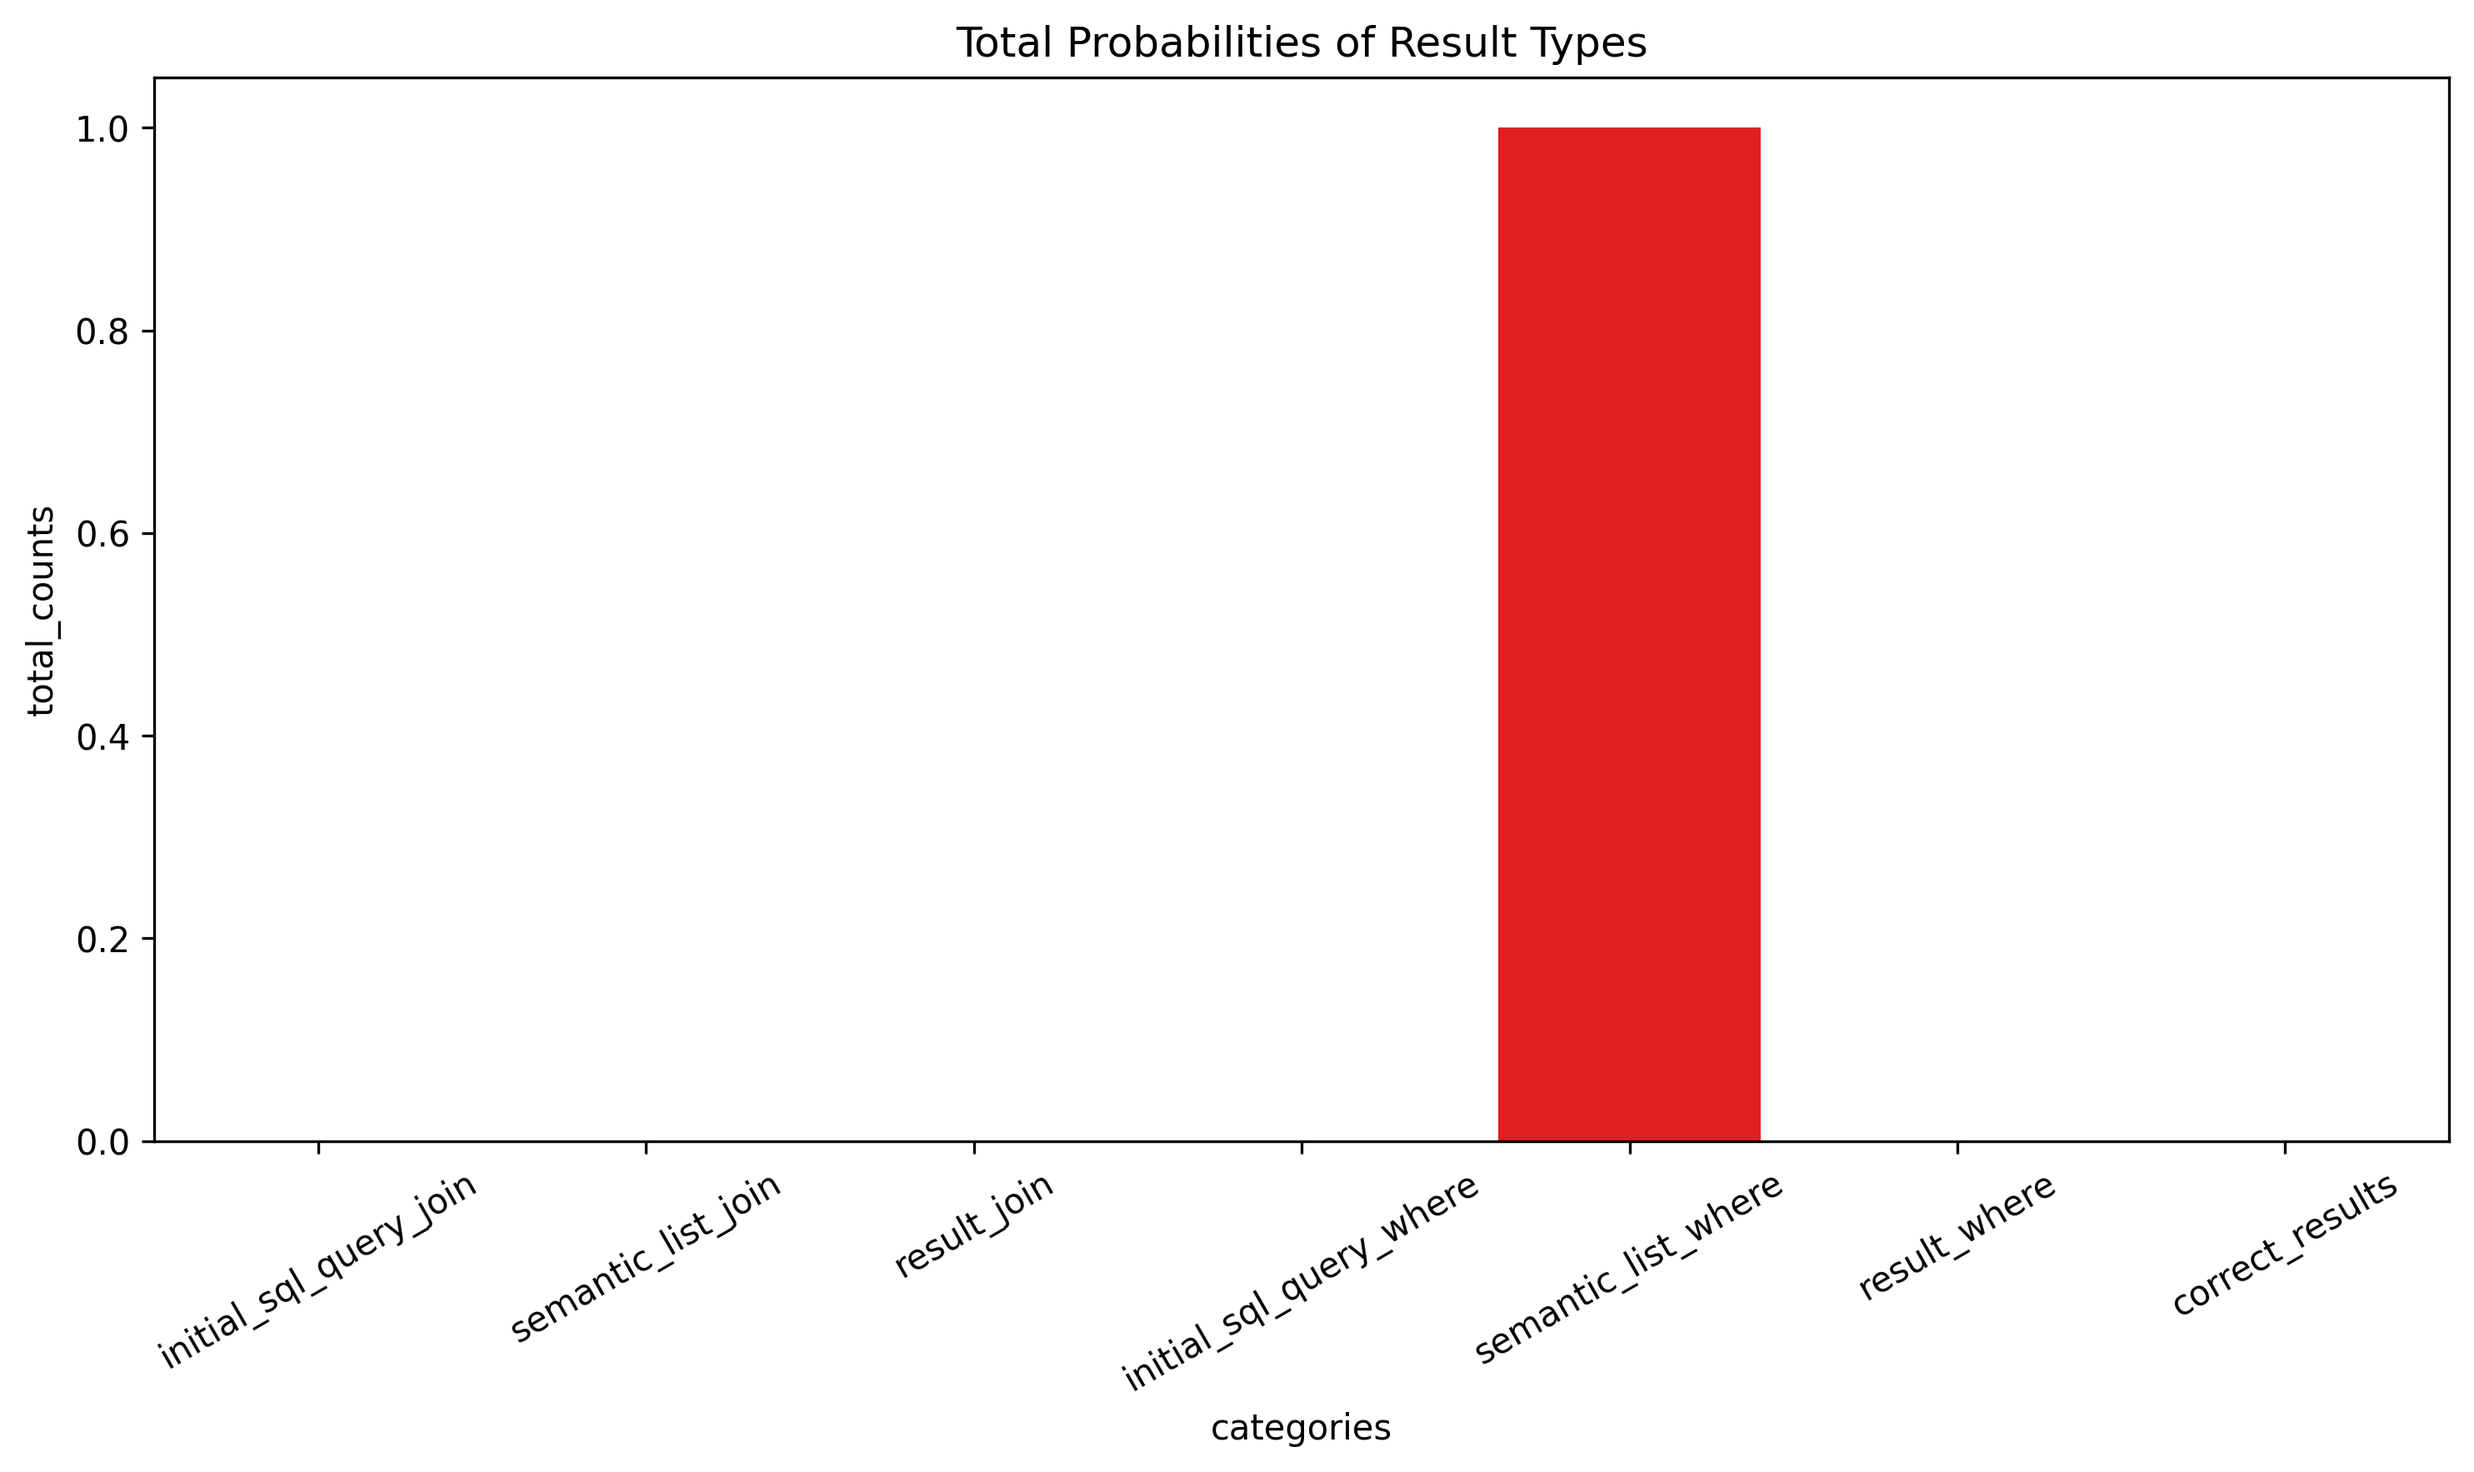
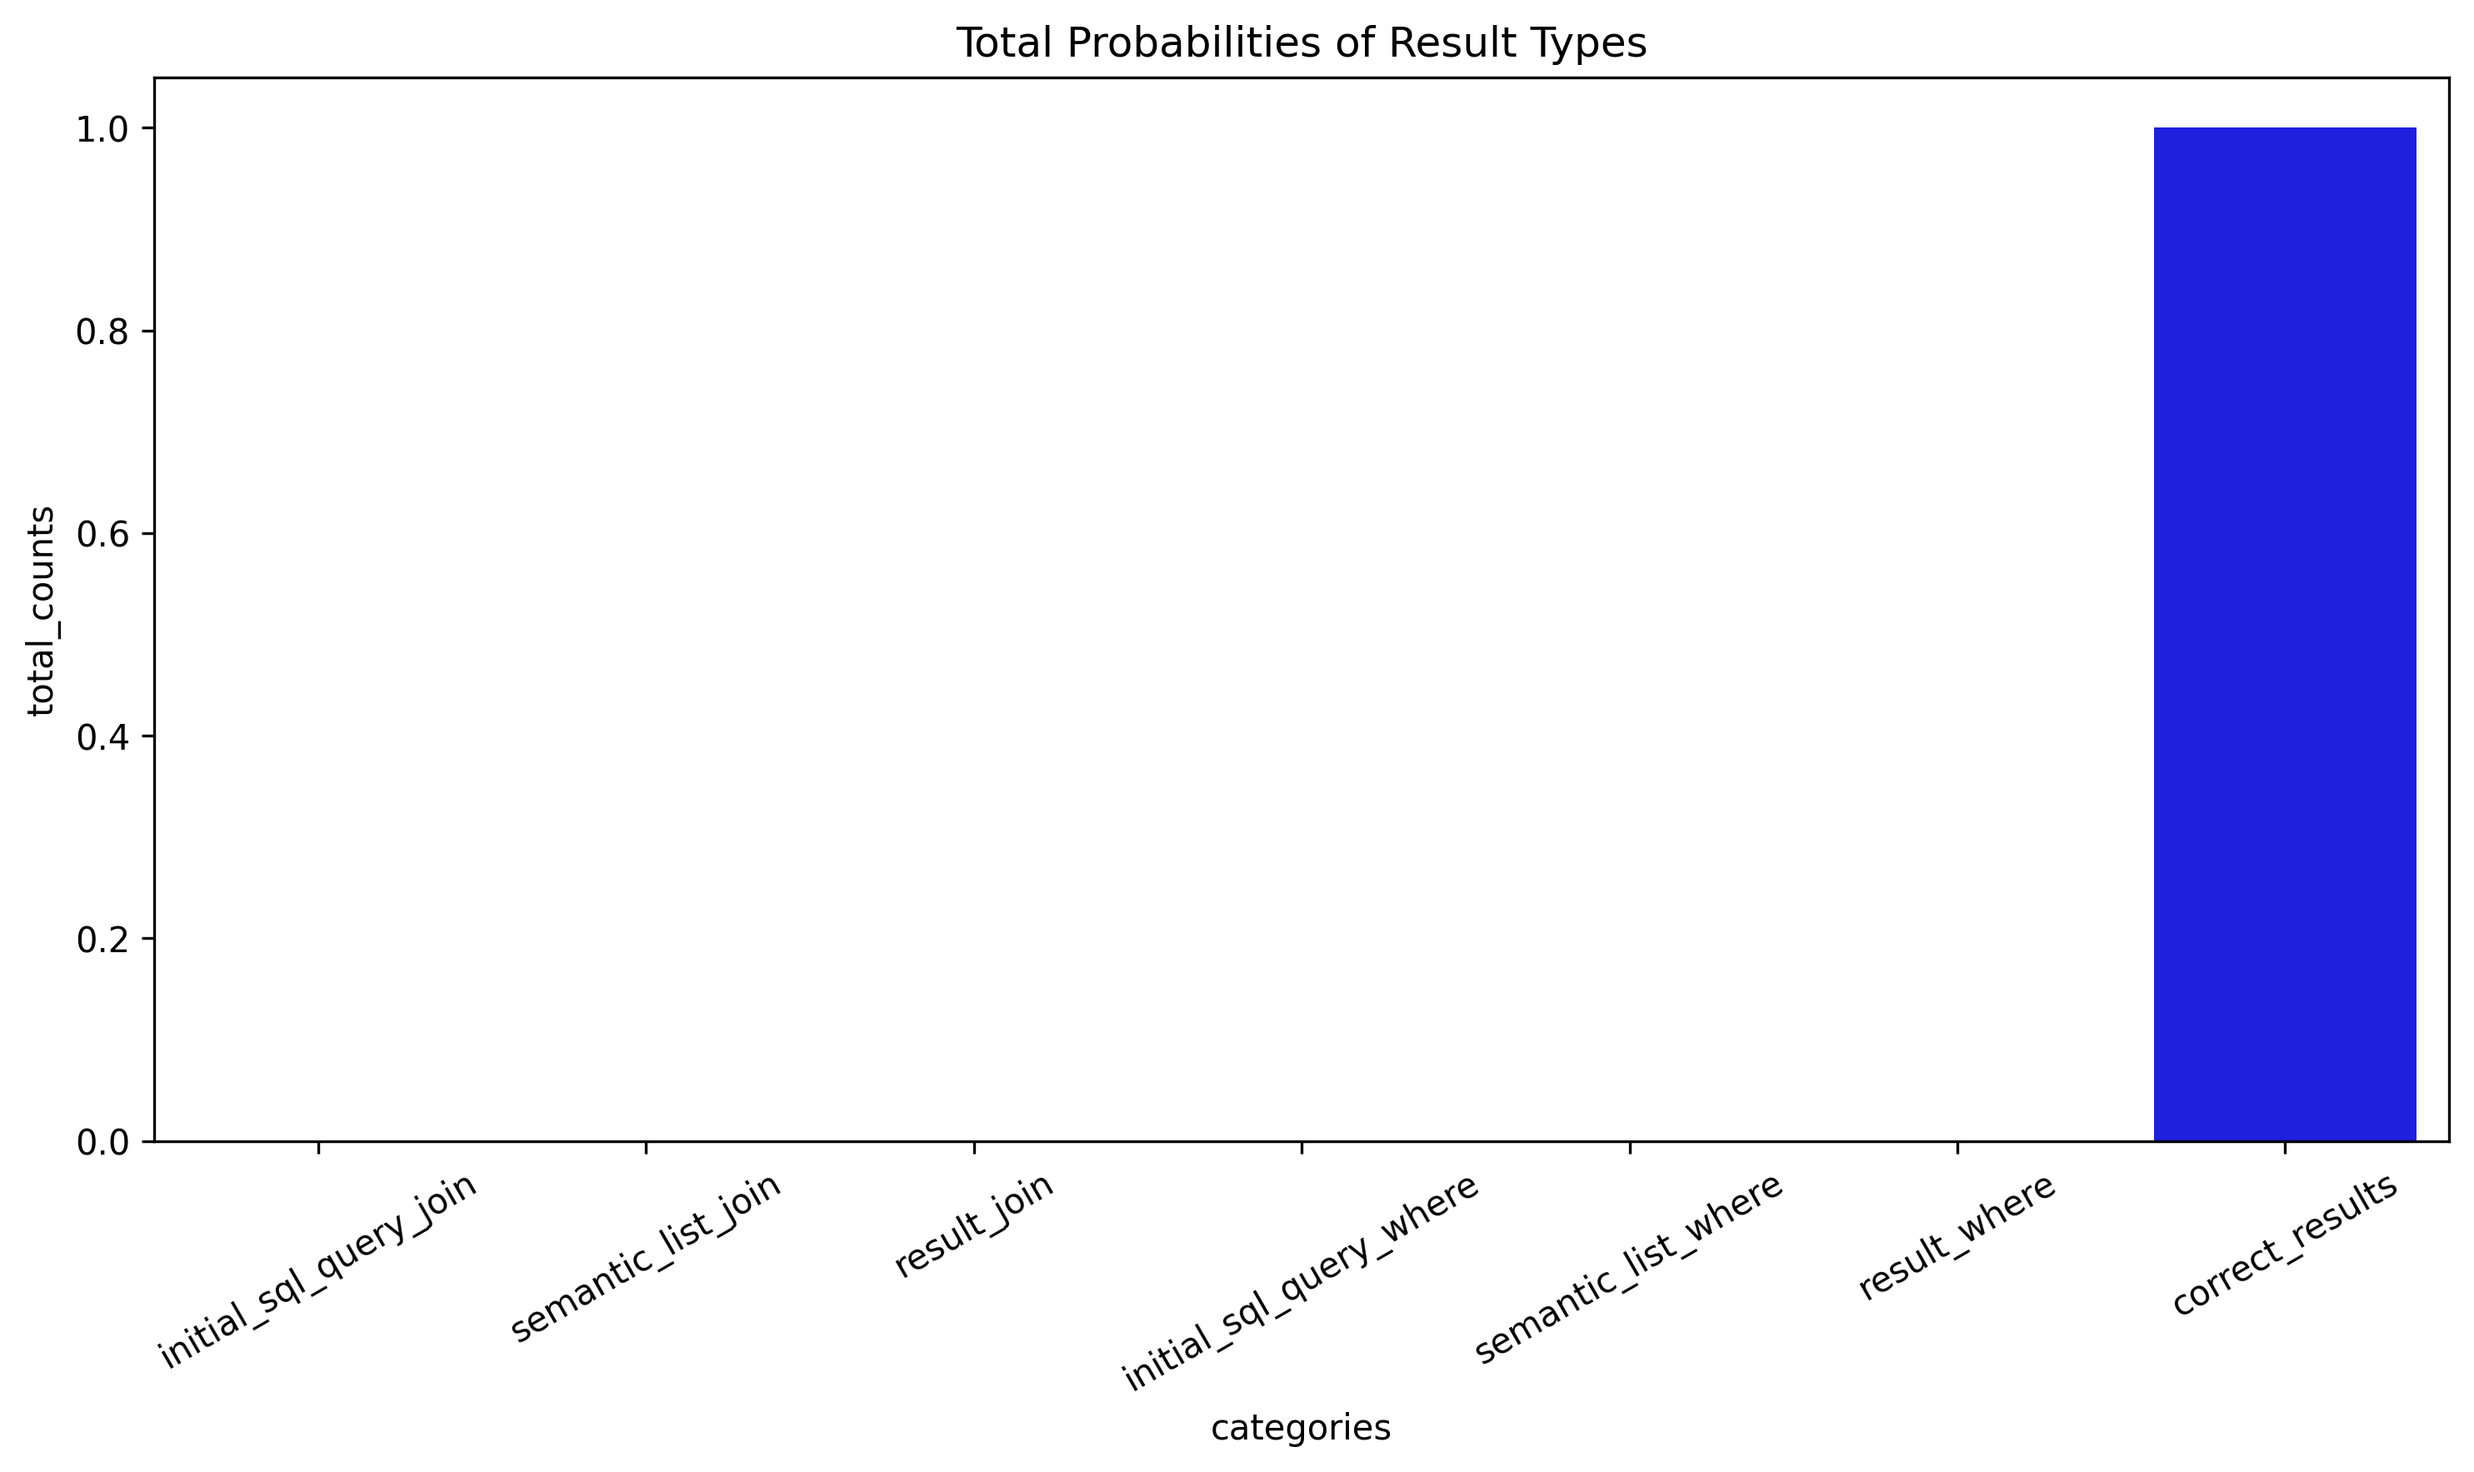
Small progress

Changed region(s): [[0.8676, 0.0623, 0.9916, 0.7782], [0.5888, 0.0623, 0.7127, 0.7782]]

diff --git a/test_evaluation.py b/test_evaluation.py
@@ -21,8 +21,8 @@ import re
 from matplotlib import ticker
 
 
-RUNS=1
-max_retries = 10
+RUNS=2
+max_retries = 30
 retry_delay = 60
 
 #PATHs for saving plots and dictionaries
@@ -125,10 +125,11 @@ def evaluation_pipeline(queries):
 
     error_total=[]
     queries_list=[]
+    api_retries = 0
     #Iterate over the whole list of input queries
     for query in queries:
 
-        api_retries = 0
+        
         #error_cnt={"initial_result": 0, "semantic_list": 0, "wrong_result": 0, "correct_results": 0}
         error_cnt={"initial_sql_query_join": 0, "semantic_list_join": 0, "result_join": 0, "initial_sql_query_where": 0, "semantic_list_where": 0, "result_where": 0,  "correct_results": 0}
         #Iterate over all the runs to get the results
@@ -138,12 +139,18 @@ def evaluation_pipeline(queries):
                 
                 #GET results from the pipeline
                 initial_sql_query_join, semantic_list_join, result_join, initial_sql_query_where, semantic_list_where, result_where, output =combined_pipeline(query=query, evaluation=True)
-                initial_sql_query_join_copy= initial_sql_query_join
+                
+                
+                #Covering case, semantic list is None
+                if not semantic_list_join:
+                    result_join=initial_sql_query_join
+                elif not semantic_list_join[0]:
+                    result_join=initial_sql_query_join
                 data = {
                     "calculus": query,
                     "initial_sql_query_join": initial_sql_query_join.replace('\n', ' ') if initial_sql_query_join is not None else None,
                     "semantic_list_join": semantic_list_join,
-                    "result_join": result_join,
+                    "result_join": result_join.replace('\n', ' ') if result_join and type(result_join)==str else None,
                     "initial_sql_query_where": initial_sql_query_where.replace('\n', ' ') if initial_sql_query_where is not None else None,
                     "semantic_list_where": semantic_list_where,
                     "result_where": result_where,
@@ -199,25 +206,41 @@ def evaluation_pipeline(queries):
                     raise Exception(f"Maximum retries reached.")
 
             #FIX the issue of farwarding the initial_query
-            if initial_sql_query_join_copy is not None:
-                if initial_sql_query_join_copy == data["result_join"] or initial_sql_query_join_copy.replace('\n', ' ') == data["result_where"]:
-                    data["result_join"]=[]
+            # if initial_sql_query_join_copy is not None:
+            #     if initial_sql_query_join_copy == data["result_join"] or initial_sql_query_join_copy.replace('\n', ' ') == data["result_where"]:
+            #         data["result_join"]=[]
+
+            #TESTING PURPOSE
+            if target_initial_query_result_join!=initial_query_result_join:
+                pass
+            elif not compare_lists_of_lists(process_list(target_instance["semantic_list_join"]), process_list(data["semantic_list_join"])):
+                pass
+            elif not compare_lists_of_lists(target_instance["result_join"], data["result_join"]):
+                pass
+            elif target_initial_query_result_where!=initial_query_result_where:
+                pass
+            elif not compare_lists_of_lists(process_list(target_instance["semantic_list_where"]), process_list(data["semantic_list_where"])):
+                pass
+            elif not compare_lists_of_lists(target_instance["result_where"], data["result_where"]):
+                pass
 
             #No add the data to the error counter, identify location of the error
-            if target_initial_query_result_join!=initial_query_result_join:
-                error_cnt["initial_sql_query_join"]+=1
-            elif not compare_lists_of_lists(process_list(target_instance["semantic_list_join"]), process_list(data["semantic_list_join"])):
-                error_cnt["semantic_list_join"]+=1
-            elif not compare_lists_of_lists(target_instance["result_join"], data["result_join"]):
-                error_cnt["result_join"]+=1
-            elif target_initial_query_result_where!=initial_query_result_where:
-                error_cnt["initial_sql_query_join"]+=1
-            elif not compare_lists_of_lists(process_list(target_instance["semantic_list_where"]), process_list(data["semantic_list_where"])):
-                error_cnt["semantic_list_where"]+=1
-            elif not compare_lists_of_lists(target_instance["result_where"], data["result_where"]):
-                error_cnt["result_where"]+=1
+            #If result is the same, then the result is correct and nothing more is investigated
             if compare_lists_of_lists(target_instance["output"], data["output"]):
                 error_cnt["correct_results"]+=1
+            else:
+                if target_initial_query_result_join!=initial_query_result_join:
+                    error_cnt["initial_sql_query_join"]+=1
+                elif not compare_lists_of_lists(process_list(target_instance["semantic_list_join"]), process_list(data["semantic_list_join"])):
+                    error_cnt["semantic_list_join"]+=1
+                elif not compare_lists_of_lists(target_instance["result_join"], data["result_join"]):
+                    error_cnt["result_join"]+=1
+                elif target_initial_query_result_where!=initial_query_result_where:
+                    error_cnt["initial_sql_query_join"]+=1
+                elif not compare_lists_of_lists(process_list(target_instance["semantic_list_where"]), process_list(data["semantic_list_where"])):
+                    error_cnt["semantic_list_where"]+=1
+                elif not compare_lists_of_lists(target_instance["result_where"], data["result_where"]):
+                    error_cnt["result_where"]+=1
         
             print(f"The error count is {error_cnt}")
 
@@ -263,7 +286,7 @@ def evaluation_pipeline(queries):
         # axes[i].set_title(f"{title_part1}\n{title_part2}")
         # axes[i].tick_params(axis='x', rotation=45, labelrotation=90)
         sns.barplot(x='errors', y='error_counts', data=tmp_dic, ax=axes[i], palette=colors).set_title(f"{title_part1}\n{title_part2}")
-        axes[i].tick_params(axis='x', rotation=90)
+        axes[i].tick_params(axis='x', rotation=30)
         #Append to dictionary list
         dic_list.append(tmp_dic)
 
@@ -275,7 +298,7 @@ def evaluation_pipeline(queries):
     #Individual plot
     plt.tight_layout()
     plt.suptitle(f"Counts of Result Types for {RUNS} Runs")
-    plt.subplots_adjust(top=0.75)
+    plt.subplots_adjust(top=0.85)
     fig.savefig(filepath_individual_plot, dpi=300, bbox_inches='tight')  # Save the figure with higher resolution
 
     plt.show()
@@ -320,6 +343,5 @@ def evaluation_pipeline(queries):
 
 #Only get predicate calculus expressions
 queries=[i for i, _ in test_cases]
-queries=[queries[0]]
 
 evaluation_pipeline(queries)
